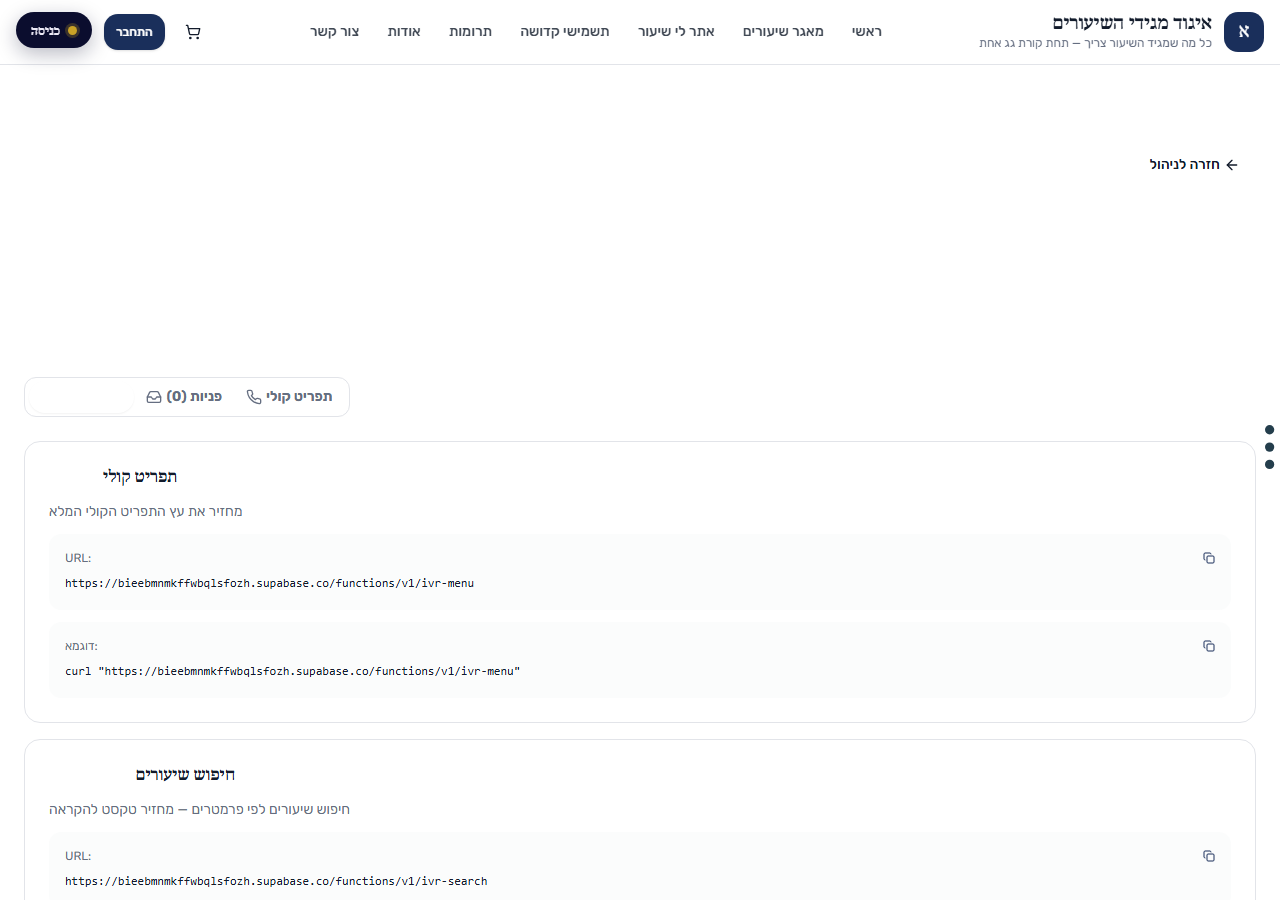
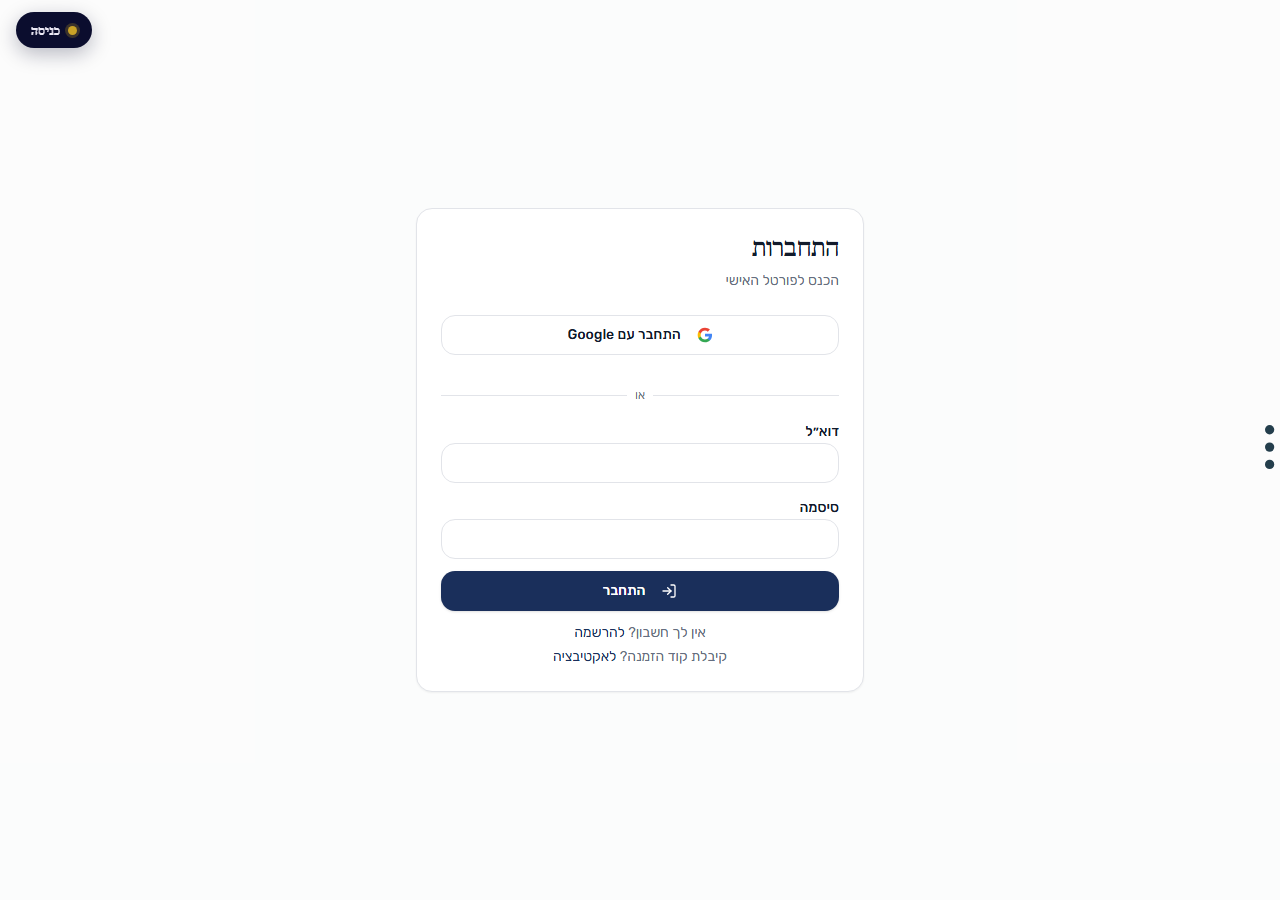
torah: the gate was written at 01:31, and production kept serving the open console until 05:25
core.issues #87 — three legacy admin consoles of system 01 were open in
production to anyone who knew the URL. The gate itself was written, measured
and pushed in ba2c41b four hours earlier; what stood between it and production
was #83, the Vercel daily deployment quota, which had refused the same command
at 04:40.

This round retried it. It went through: dpl_CrB5iFg7RidHqhGQfPfhZ5XZQ4C7,
READY, aliased to torah-more30.vercel.app. Production was then measured
directly — through more30.com, not through the *.vercel.app alias, which
NetFree blocks from this machine — with scripts/qa/spa-admin-route.mjs:

  /torah/legacy/admin    -> /torah/auth/sign-in?redirect=%2Flegacy%2Fadmin
  /torah/legacy/ivr      -> /torah/auth/sign-in?redirect=%2Flegacy%2Fivr
  /torah/legacy/nedarim  -> /torah/auth/sign-in?redirect=%2Flegacy%2Fnedarim
  /torah/admin           -> /torah/auth/sign-in?redirect=%2Fadmin

137 characters, password field, adminChrome empty on all four, and each one
keeps the way back, so a real admin lands on the console after signing in and
not on the home page. The four screenshots come out byte-identical at 26,987
bytes — the same sign-in screen, not four different ones. legacy-admin-full.png
is left as it was: it is the picture of what was open.

#83 is not solved, it released one slot. The second deploy attempted in the
same minute — mthbram (#82), whose build is ready and verified in
_deploy/mthbram-more30 — was refused with the same api-deployments-free-per-day
[…]

diff --git a/SYSTEMS_STATUS.md b/SYSTEMS_STATUS.md
@@ -1,5 +1,39 @@
 # SYSTEMS_STATUS.md — מצב כל המערכות, נמדד
 
+> ## ✅ 07/08/2026 05:25 — **הדלת הפתוחה של מערכת 01 נסגרה בייצור. חלון הפריסות שחרר מקום אחד בדיוק, והוא הלך לזה.**
+>
+> `core.issues #87` — שלוש קונסולות הניהול הישנות של torah היו פתוחות בייצור
+> לכל מי שידע את הכתובת. השער נכתב ונמדד ב-`ba2c41b` ב-01:31, והייצור המשיך
+> להגיש את הגרסה הפתוחה עוד ארבע שעות מסיבה אחת: מכסת הפריסות של Vercel
+> (`#83`). הסבב הזה ניסה שוב, והפעם הפריסה עברה —
+> `dpl_CrB5iFg7RidHqhGQfPfhZ5XZQ4C7`, READY, aliased ל-`torah-more30.vercel.app`.
+>
+> **נמדד על הייצור אחרי הפריסה**, `scripts/qa/spa-admin-route.mjs` מול
+> `more30.com` (לא מול ה-`*.vercel.app`, ש-NetFree חוסם):
+>
+> | נתיב | לפני | אחרי |
+> |---|---|---|
+> | `/torah/legacy/admin` | נשאר במקומו · 953 תווים · קונסולת ניהול מלאה ⚠ | `→ /torah/auth/sign-in?redirect=%2Flegacy%2Fadmin` · 137 תווים · שדה סיסמה |
+> | `/torah/legacy/ivr` | קונסולה · בלי שער | `→ /torah/auth/sign-in?redirect=%2Flegacy%2Fivr` |
+> | `/torah/legacy/nedarim` | קונסולה · בלי שער | `→ /torah/auth/sign-in?redirect=%2Flegacy%2Fnedarim` |
+> | `/torah/admin` | שער תקין | שער תקין · `redirect=%2Fadmin` |
+>
+> ארבעת המסכים חוזרים עכשיו 26,987 בייט **זהים** בצילום — אותו מסך כניסה בדיוק,
+> ולא ארבעה מסכים שונים. `adminChrome` ריק בכל אחד מהם, כלומר שום פקד ניהול לא
+> מצויר לאורח. כל אחד מהם שומר את הדרך חזרה, ולכן אדמין אמיתי שילחץ על הקישור
+> יגיע ליעד שלו אחרי ההתחברות ולא לדף הבית.
+>
+> **מה זה לא סוגר:** `#83` לא נפתר — הוא שחרר מקום. הפריסה השנייה באותה דקה,
+> `mthbram` (`#82`), נדחתה עם אותה הודעה `api-deployments-free-per-day` בדיוק.
+> כלומר החלון הוא מתגלגל ומשחרר טיפין-טיפין, וזה גם למה הפריט הזה קיבל את
+> המקום ולא זה שלפניו בתור: קונסולה פתוחה בייצור לפני מצב כהה.
+>
+> ראיות: `QA/platform/spa-admin-torah-0807/_results.json` (05:25) +
+> `admin.png` · `legacy-admin.png` · `legacy-ivr.png` · `legacy-nedarim.png`.
+> `legacy-admin-full.png` נשמר כפי שהוא — זו התמונה של מה שהיה פתוח.
+> לא נגעתי ב-08, 09, `bkalut-app`, `bkalot-admin`, `zr_*` או `NEDARIM3873`, ולא
+> שיניתי שום מצב חיוב או שליחה.
+
 > ## ⚠ 07/08/2026 — **הכניסה לניהול של מערכת 01 נרשמה כעמוד שהשער שולח אליו. ובדרך התגלתה דלת פתוחה.**
 >
 > `core.issues #85` — הבדיקה הקודמת השאירה את torah בלי הכרעה, ובצדק: כל נתיב
@@ -37,6 +71,7 @@
 > והייצוא באמת עוברים — הדרך היחידה לדעת היא לכתוב לפרודקשן, וזה לא נעשה.
 >
 > התיקון הוא build+deploy ולכן **חסום על `#83`** (מכסת הפריסות היומית של Vercel).
+> ~~חסום~~ — **נפרס ואומת חי ב-07/08 05:25**, ראה את הבלוק שבראש הקובץ.
 >
 > ראיות: `QA/platform/spa-admin-torah-0807/` (`_results.json` + `legacy-admin-full.png`).
 > לא נגעתי ב-08, 09, `bkalut-app`, `bkalot-admin`, `zr_*` או `NEDARIM3873`, ולא

diff --git a/NEEDS_USER.md b/NEEDS_USER.md
@@ -114,6 +114,30 @@
 > vercel deploy --prod --yes --scope l023131500-ops-projects
 > ```
 
+### ✅ עודכן 07/08 05:25 — **הקונסולות הפתוחות נסגרו בייצור. הפקודה האחת רצה.**
+
+הפקודה שלמעלה הורצה והפעם עברה: `dpl_CrB5iFg7RidHqhGQfPfhZ5XZQ4C7`, מצב
+`READY`, aliased ל-`torah-more30.vercel.app`. מיד אחריה נמדד הייצור עצמו דרך
+`more30.com`, ושלושת הנתיבים שהיו פתוחים — `/torah/legacy/admin`,
+`/torah/legacy/ivr`, `/torah/legacy/nedarim` — מפנים עכשיו למסך הכניסה ושומרים
+את הדרך חזרה. **`core.issues #87` נסגר.** ראיות:
+`QA/platform/spa-admin-torah-0807/`.
+
+**מה עדיין דורש אותך, ולמה זה לא נפתר:** החלון אינו מתאפס בבת אחת אלא מתגלגל
+ומשחרר מקומות בודדים. הפריסה השנייה שניסיתי באותה דקה — `mthbram`, שהבנייה שלה
+מוכנה ומאומתת ב-`_deploy/mthbram-more30` — **נדחתה עם אותה הודעה בדיוק**
+(`api-deployments-free-per-day`). כלומר יש כרגע כ-פריסה אחת פנויה לכל סבב, וכל
+צעד שנגמר בפריסה ימשיך להמתין בתור. סדר התור שקבעתי לבד: קונסולה פתוחה בייצור
+לפני מצב כהה. **ההכרעה שלך:** לשדרג ל-Vercel Pro אם הקצב הזה קבוע, או להשאיר
+כך ולתת לכל סבב לשחרר פריט אחד. `core.issues #83` נשאר פתוח.
+
+הפריסה הבאה בתור, כשיתפנה מקום — פקודה אחת, בלי בנייה:
+
+```
+cd _deploy/mthbram-more30
+vercel deploy --prod --yes --scope l023131500-ops-projects
+```
+
 
 
 ---
